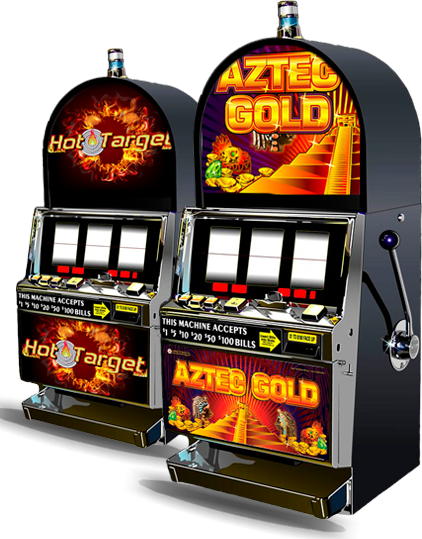
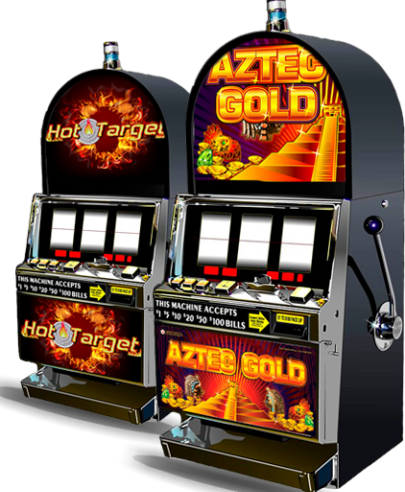
template fixed

diff --git a/css/style.css b/css/style.css
@@ -319,11 +319,6 @@ a:hover, a:active {
   display: -ms-flexbox;
   display: flex; }
 
-.clearfix {
-  content: "";
-  display: table;
-  clear: both; }
-
 .sub-title {
   max-width: 310px;
   margin: 0 auto;
@@ -415,47 +410,43 @@ a:hover, a:active {
       background-position: right;
       padding-top: 35px;
       box-sizing: content-box; }
-      .main-header .column-left::before {
+      .main-header .column-left::before, .main-header .column-left::after {
         content: "";
         position: absolute;
+        background-size: 100% 100%; }
+      .main-header .column-left::before {
         background-image: url(../img/big_rob.gif);
         width: 132px;
-        height: 80px;
-        top: 149px;
-        right: 157px;
-        background-size: cover; }
+        height: 74px;
+        top: 156px;
+        right: 157px; }
       .main-header .column-left::after {
-        content: "";
-        position: absolute;
         background-image: url(../img/pearl_lag.gif);
         width: 120px;
         height: 70px;
-        top: 147px;
-        right: 37px;
-        background-size: cover; }
+        top: 160px;
+        right: 37px; }
     .main-header .column-right {
       background-image: url(../img/avtomaty-right.png);
       background-position: left;
       padding-top: 35px;
       box-sizing: content-box; }
-      .main-header .column-right::before {
+      .main-header .column-right::before, .main-header .column-right::after {
         content: "";
         position: absolute;
+        background-size: 100% 100%; }
+      .main-header .column-right::before {
         background-image: url(../img/hot_targ.gif);
         width: 133px;
         height: 80px;
         top: 156px;
-        left: 22px;
-        background-size: cover; }
+        left: 22px; }
       .main-header .column-right::after {
-        content: "";
-        position: absolute;
         background-image: url(../img/aztecs.gif);
         width: 136px;
         height: 80px;
-        top: 156px;
-        left: 148px;
-        background-size: cover; }
+        top: 165px;
+        left: 155px; }
     .main-header .column-center {
       padding-bottom: 50px;
       box-sizing: border-box; }
@@ -543,9 +534,10 @@ a:hover, a:active {
   padding: 0 10vw;
   position: relative;
   top: -90px;
-  -webkit-justify-content: space-around;
-      -ms-flex-pack: distribute;
-          justify-content: space-around;
+  -webkit-box-pack: center;
+  -webkit-justify-content: center;
+      -ms-flex-pack: center;
+          justify-content: center;
   -webkit-flex-wrap: wrap;
       -ms-flex-wrap: wrap;
           flex-wrap: wrap; }
@@ -660,9 +652,10 @@ a:hover, a:active {
   margin-top: 30px;
   padding: 0 10vw; }
   .benefits-content {
-    -webkit-justify-content: space-around;
-        -ms-flex-pack: distribute;
-            justify-content: space-around;
+    -webkit-box-pack: center;
+    -webkit-justify-content: center;
+        -ms-flex-pack: center;
+            justify-content: center;
     -webkit-flex-wrap: wrap;
         -ms-flex-wrap: wrap;
             flex-wrap: wrap;
@@ -673,7 +666,7 @@ a:hover, a:active {
     -webkit-flex: 1 1 110px;
         -ms-flex: 1 1 110px;
             flex: 1 1 110px;
-    margin: 10px; }
+    margin: 15px; }
     .benefits .benefit-title {
       width: 90px;
       margin: 5px auto;
@@ -718,6 +711,10 @@ a:hover, a:active {
   -webkit-flex-wrap: wrap;
       -ms-flex-wrap: wrap;
           flex-wrap: wrap;
+  -webkit-box-pack: center;
+  -webkit-justify-content: center;
+      -ms-flex-pack: center;
+          justify-content: center;
   margin: 70px 50px 20px; }
   .partners .partner {
     width: 60px;

diff --git a/css/style.sass b/css/style.sass
@@ -6,17 +6,11 @@ body
   background-color: $black
   overflow-x: hidden
   font-family: 'Roboto Condensed', sans-serif
+
 a:hover, a:active
   outline: 0
-
 .flex
   display: flex
-
-.clearfix
-  content: ''
-  display: table
-  clear: both
-
 .sub-title
   max-width: 310px
   margin: 0 auto
@@ -105,47 +99,45 @@ a:hover, a:active
       background-position: right
       padding-top: 35px
       box-sizing: content-box
-      &::before
-        content: ''
-        position: absolute
-        background-image: url(../img/big_rob.gif)
-        width: 132px
-        height: 80px
-        top: 149px
-        right: 157px
-        background-size: cover
+      &::before,
       &::after
         content: ''
         position: absolute
+        background-size: 100% 100%
+      &::before
+        background-image: url(../img/big_rob.gif)
+        width: 132px
+        height: 74px
+        top: 156px
+        right: 157px
+      &::after
         background-image: url(../img/pearl_lag.gif)
         width: 120px
         height: 70px
-        top: 147px
+        top: 160px
         right: 37px
-        background-size: cover
     &-right
       background-image: url(../img/avtomaty-right.png)
       background-position: left
       padding-top: 35px
       box-sizing: content-box
-      &::before
+      &::before,
+      &::after
         content: ''
         position: absolute
+        background-size: 100% 100%
+      &::before
         background-image: url(../img/hot_targ.gif)
         width: 133px
         height: 80px
         top: 156px
         left: 22px
-        background-size: cover
       &::after
-        content: ''
-        position: absolute
         background-image: url(../img/aztecs.gif)
         width: 136px
         height: 80px
-        top: 156px
-        left: 148px
-        background-size: cover
+        top: 165px
+        left: 155px
     &-center
       padding-bottom: 50px
       box-sizing: border-box
@@ -218,12 +210,11 @@ a:hover, a:active
           &.fifthanimation
             animation: cyclefive 20s linear infinite
 
-
 .games
   padding: 0 10vw
   position: relative
   top: -90px
-  justify-content: space-around
+  justify-content: center
   flex-wrap: wrap
   .game
     max-width: 130px
@@ -330,18 +321,17 @@ a:hover, a:active
       text-align: right
       padding: 3px 0
 
-
 .benefits
   margin-top: 30px
   padding: 0 10vw
   &-content
-    justify-content: space-around
+    justify-content: center
     flex-wrap: wrap
     padding: 30px 0
   .benefit
     max-width: 100px
     flex: 1 1 110px
-    margin: 10px
+    margin: 15px
     &-title
       width: 90px
       margin: 5px auto
@@ -378,9 +368,9 @@ a:hover, a:active
       left: 0
       transition: 0.5s linear
 
-
 .partners
   flex-wrap: wrap
+  justify-content: center
   margin: 70px 50px 20px
   .partner
     width: 60px
@@ -392,9 +382,6 @@ a:hover, a:active
     align-items: center
     img
       max-width: 100%
-
-
-
 
 #to-top
   position: fixed
